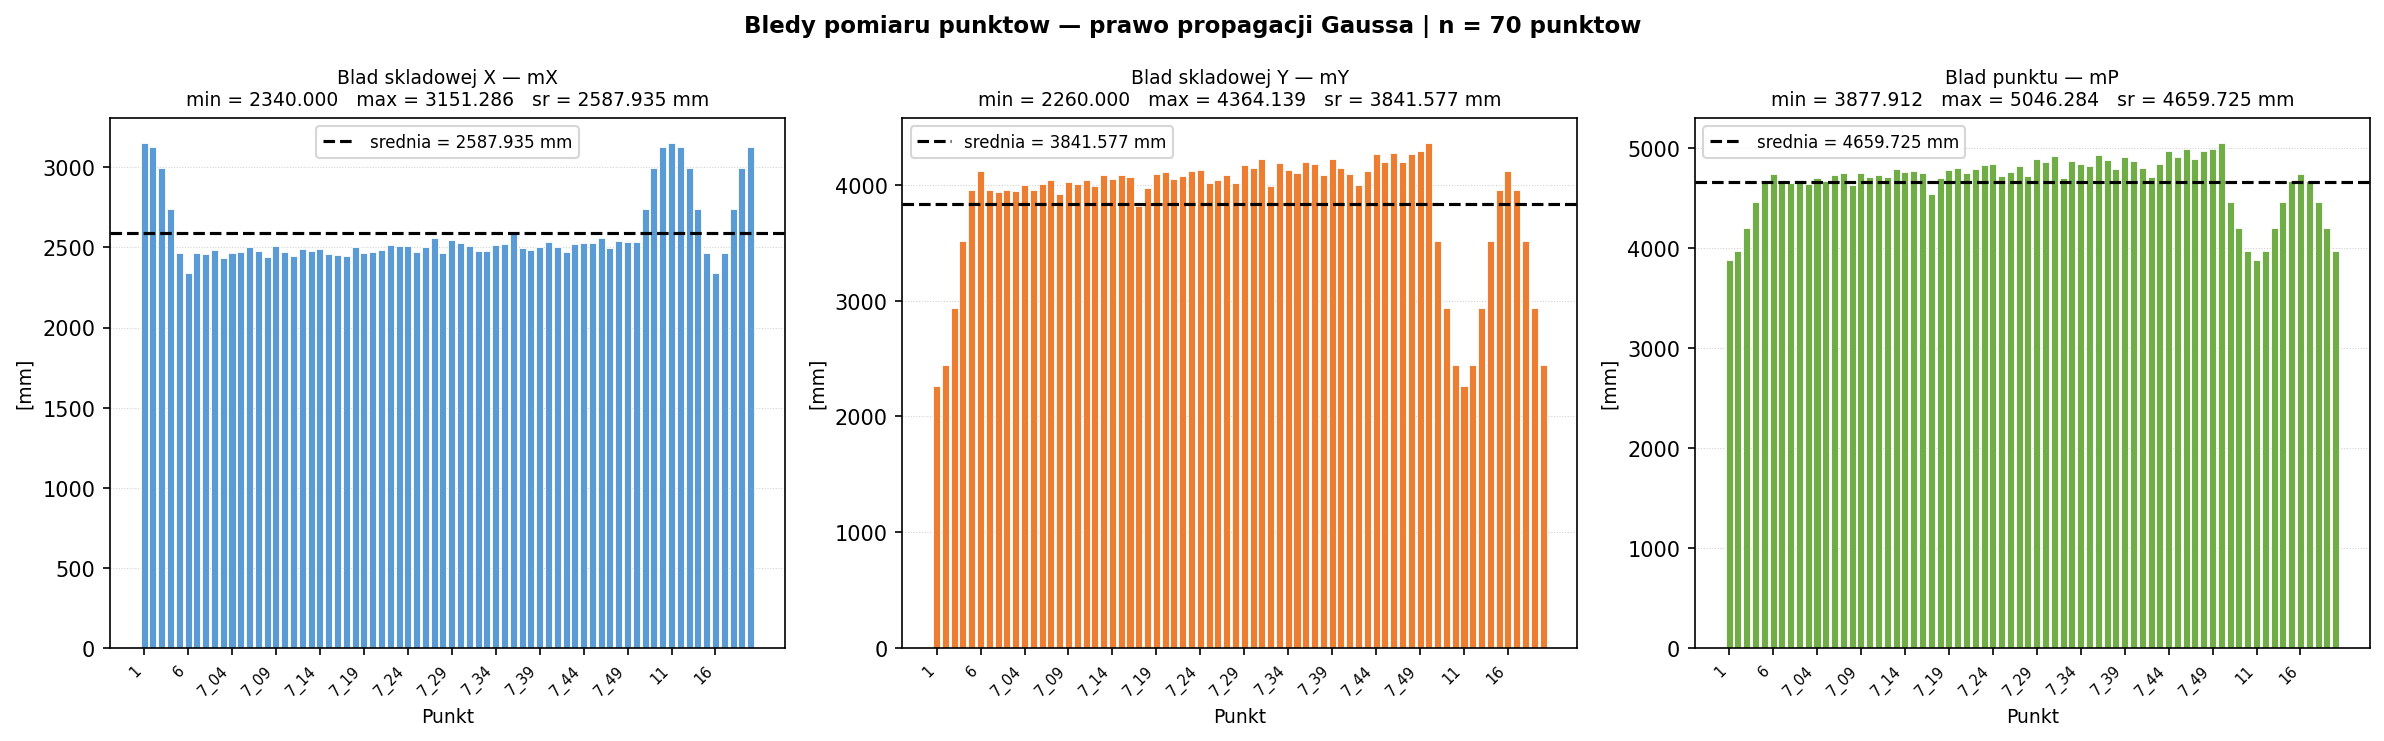
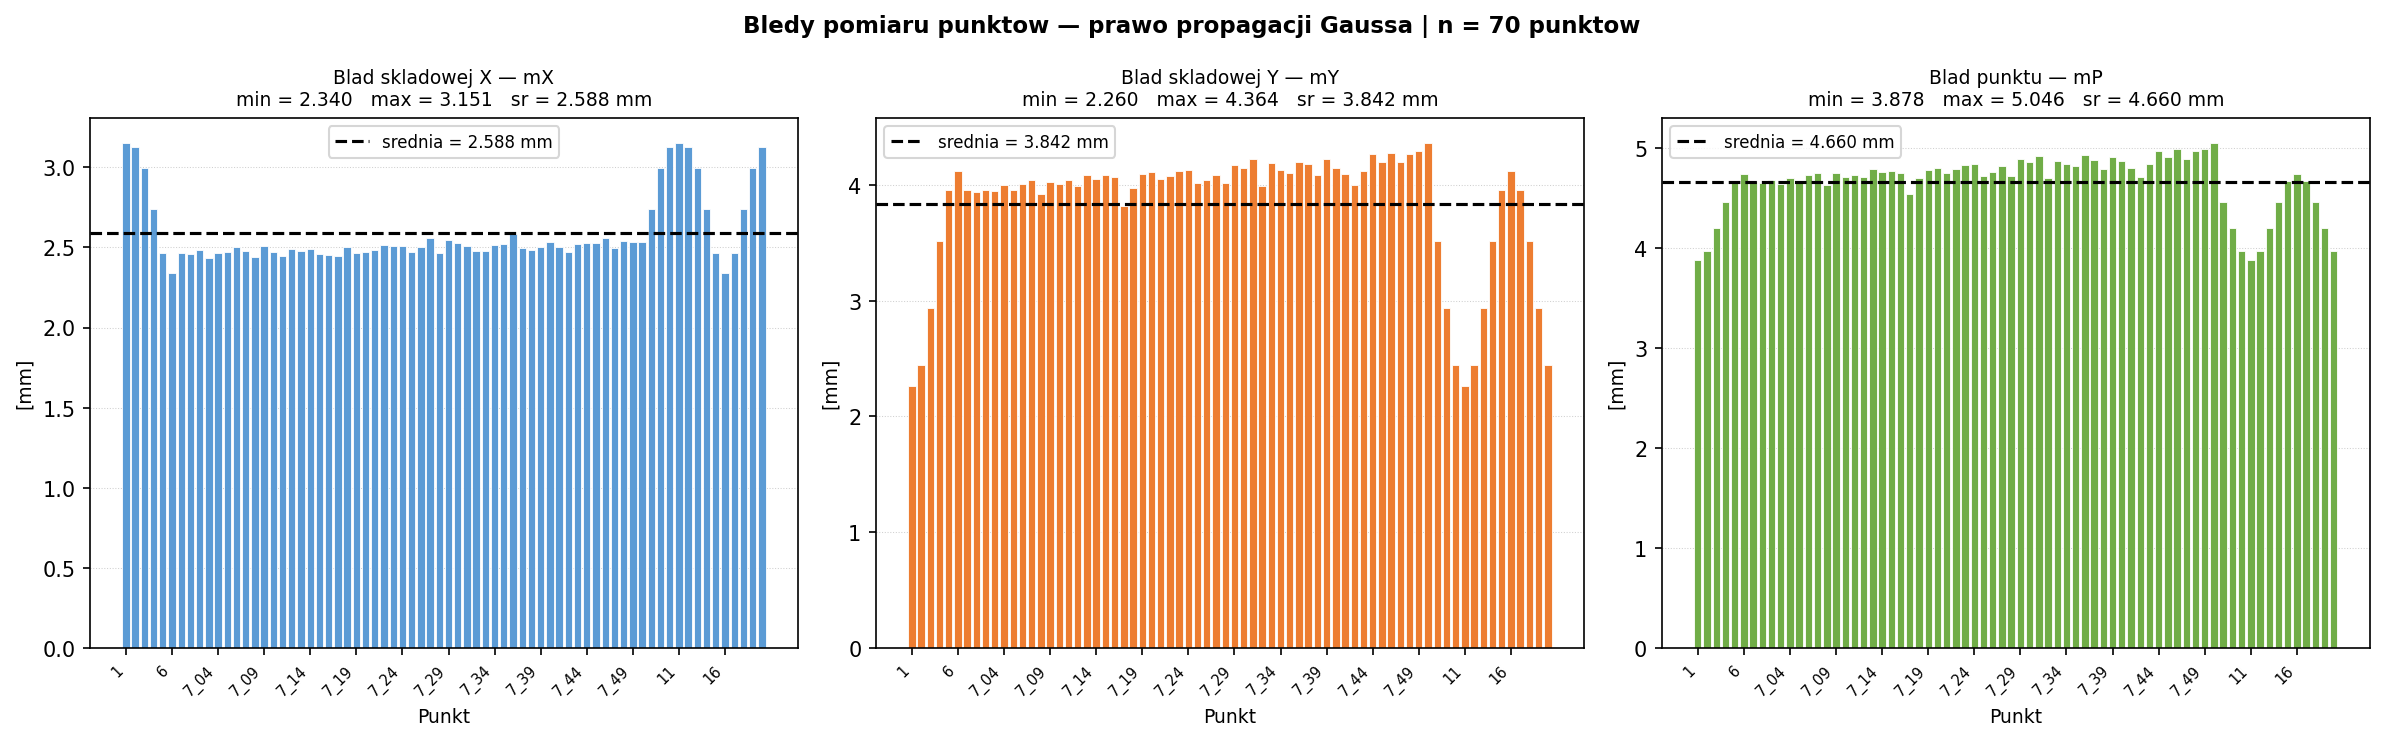
poprawione błędy i nowo wygenerowany wykres

diff --git a/wizualizacja.py b/wizualizacja.py
@@ -4,6 +4,7 @@ import numpy as np
 import matplotlib  
                 
 # Użycie silnika Agg - bo inaczej nie działało :(((((
+matplotlib.use('Agg')
 import matplotlib.pyplot as plt    
 
 KOLOR_WB   = '#1f77b4'   
@@ -149,9 +150,9 @@ def wykres_bledow(wyniki, sciezka_png):
     pkt = wyniki['pkt']
     n   = len(pkt)
 
-    mX_mm = [v * 1000.0 for v in wyniki['mX']]
-    mY_mm = [v * 1000.0 for v in wyniki['mY']]
-    mP_mm = [v * 1000.0 for v in wyniki['mP']]
+    mX_mm = wyniki['mX']
+    mY_mm = wyniki['mY']
+    mP_mm = wyniki['mP']
 
     pozycje = np.arange(n)
 

diff --git a/main.py b/main.py
@@ -157,7 +157,7 @@ def main():
             print(f"  [OK] Regresja obliczona dla {wynik_reg['n']} punktow.")
             print(f"       a = {wynik_reg['a']:+.8f}")
             print(f"       b = {wynik_reg['b']:+.4f}")
-            print(f"       R2 = {wynik_reg['R2']:.6f}   Se = {wynik_reg['Se']:.3f} m")
+            print(f"       R2 = {wynik_reg['R2']:.6f}   Se = {wynik_reg['Se']*1000.0:.3f} mm")
             print(f"  [OK] Raport zapisany: {RAPORT_REGRESJI}")
 
         # wizualizacja regresji 